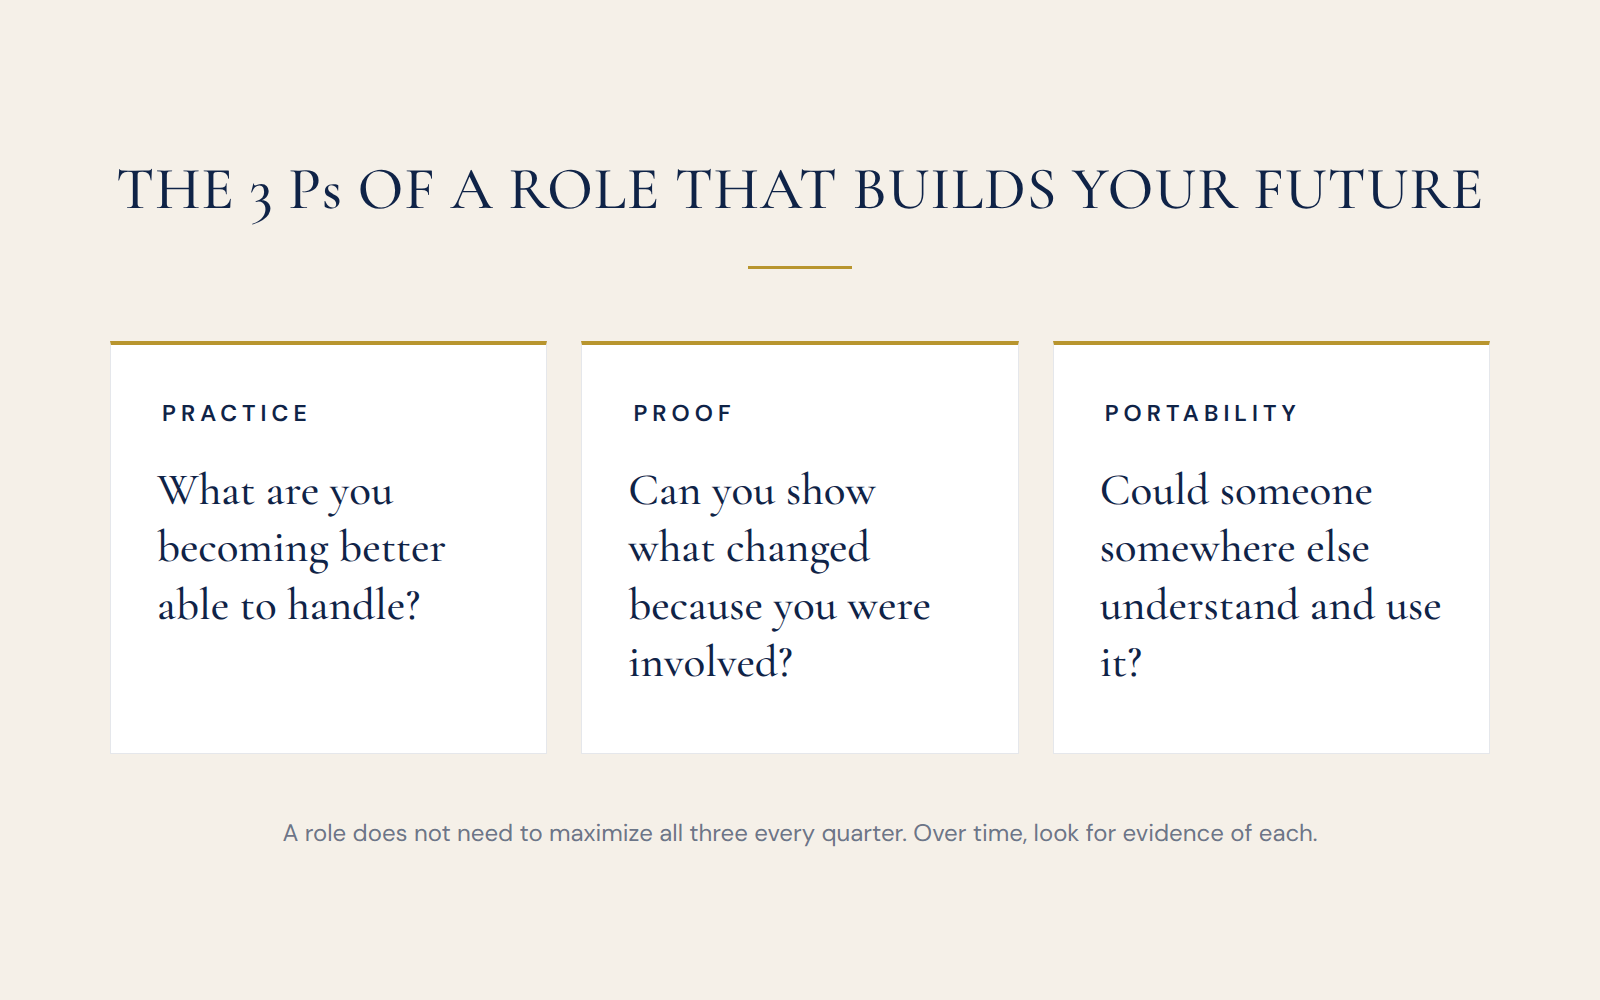
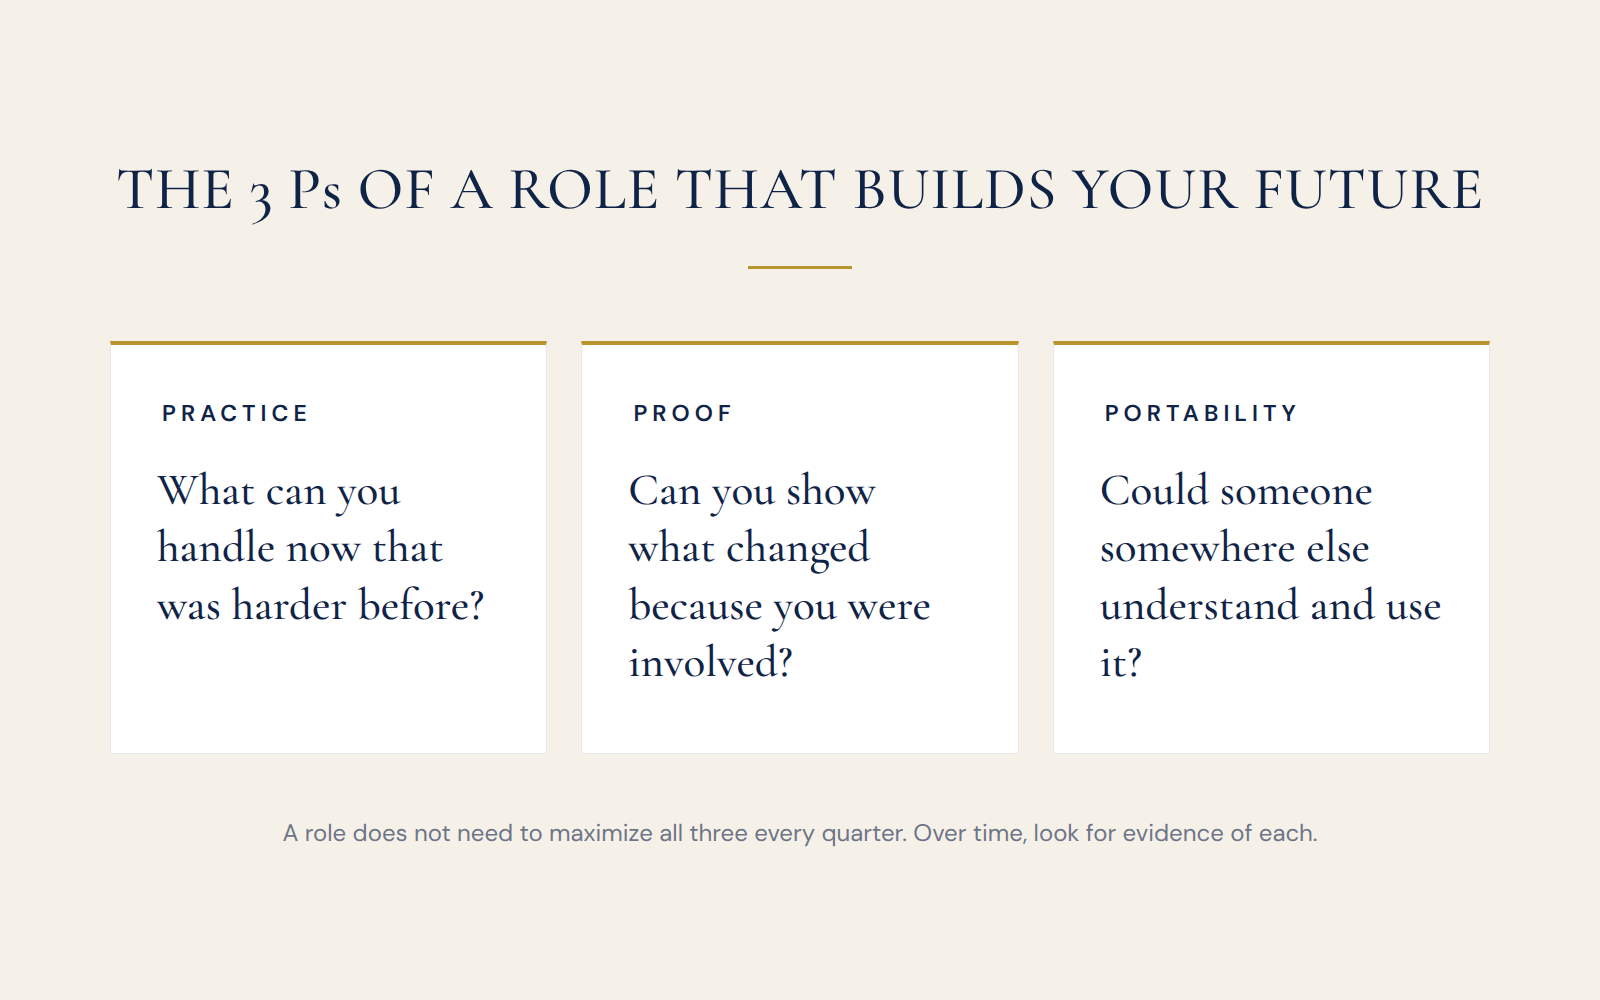
Reword the Practice question on the 3 Ps visual
The card carried the essay's section heading, "What are you becoming better
able to handle?", which does not read as speech. It now carries the essay's
own 90-day question in second person: "What can you handle now that was
harder before?" Proof and Portability are unchanged.

The gate compares each card question against the essay verbatim, so rather
than loosening that check, copy.json now records this line as an
approvedRewrite and the gate reports it as a note. Any other line that stops
matching the essay still fails the build.

Claude-Session: https://claude.ai/code/session_01CYREDb8LZXEyjGSXhtygrV

Changed region(s): [[0.0938, 0.465, 0.3125, 0.62]]

diff --git a/substack-sep09-current-role-final-visuals/QA-REPORT.md b/substack-sep09-current-role-final-visuals/QA-REPORT.md
@@ -8,7 +8,8 @@ Automated gate: `source/verify-visuals.mjs`, currently passing.
 
 1. **Copy is exact.** Every string on every sheet is compared against
    `source/copy.json` by the gate, and the three card questions plus the cover
-   title are compared against the essay text. All match verbatim.
+   title are compared against the essay text. All match verbatim except the
+   Practice question, which is an approved rewrite. See item 7 below.
 2. **Placement anchors are present and unaltered** in v5.2. All four were found
    verbatim: "That is what the 3 Ps help you see.", "Practice: What are you
    becoming better able to handle?", "That is exactly where the Starter
@@ -45,6 +46,16 @@ Automated gate: `source/verify-visuals.mjs`, currently passing.
 12. **The article document was not modified.**
 
 ## Could not verify, or decided rather than guessed
+
+0. **The Practice question is an approved rewrite, at your direction.** The card
+   now reads "What can you handle now that was harder before?" This is the
+   essay's own 90-day question, "What can I handle now that was genuinely harder
+   for me before?", put into second person to match the other two cards. The
+   essay heading it replaces, "What are you becoming better able to handle?", did
+   not read naturally on the card. Proof and Portability are unchanged and still
+   verbatim. The rewrite is recorded in `source/copy.json` under
+   `approvedRewrite`, and the gate reports it rather than failing on it, so the
+   verbatim check stays in force for every other line.
 
 1. **Two copy lines differ between the build request and v5.2, and I used the
    build request.** Flagging rather than silently reconciling:
